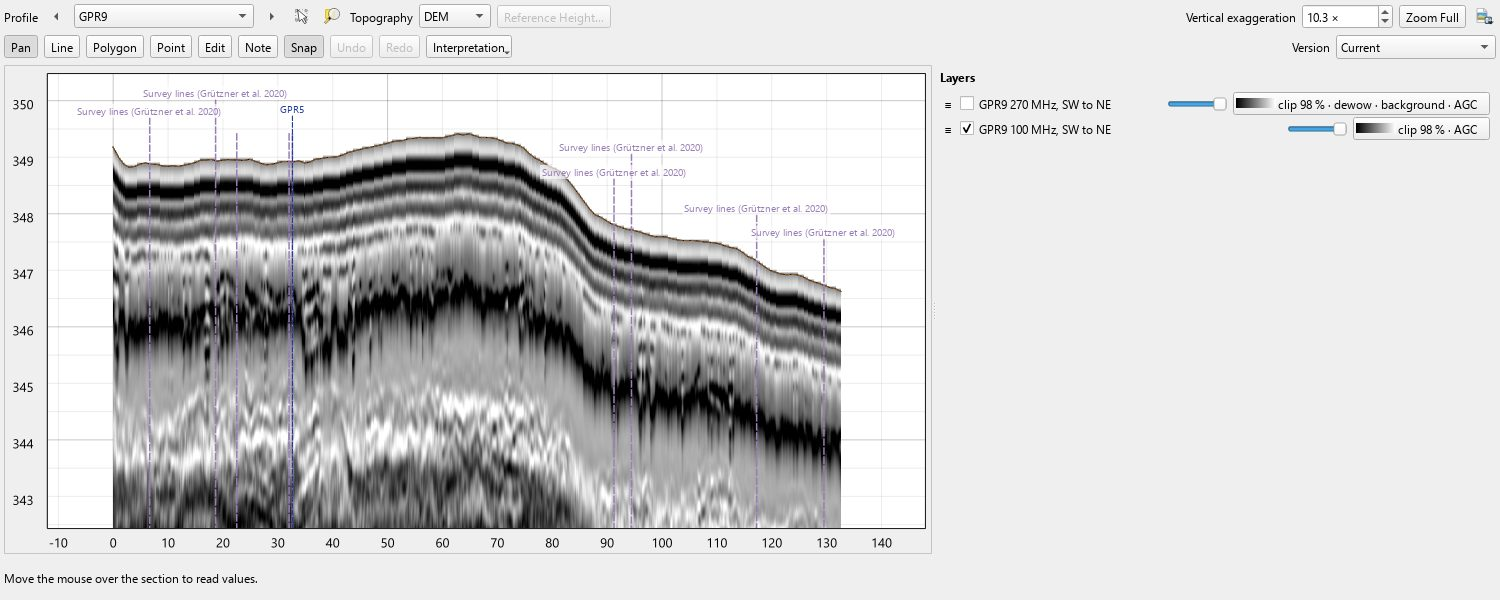
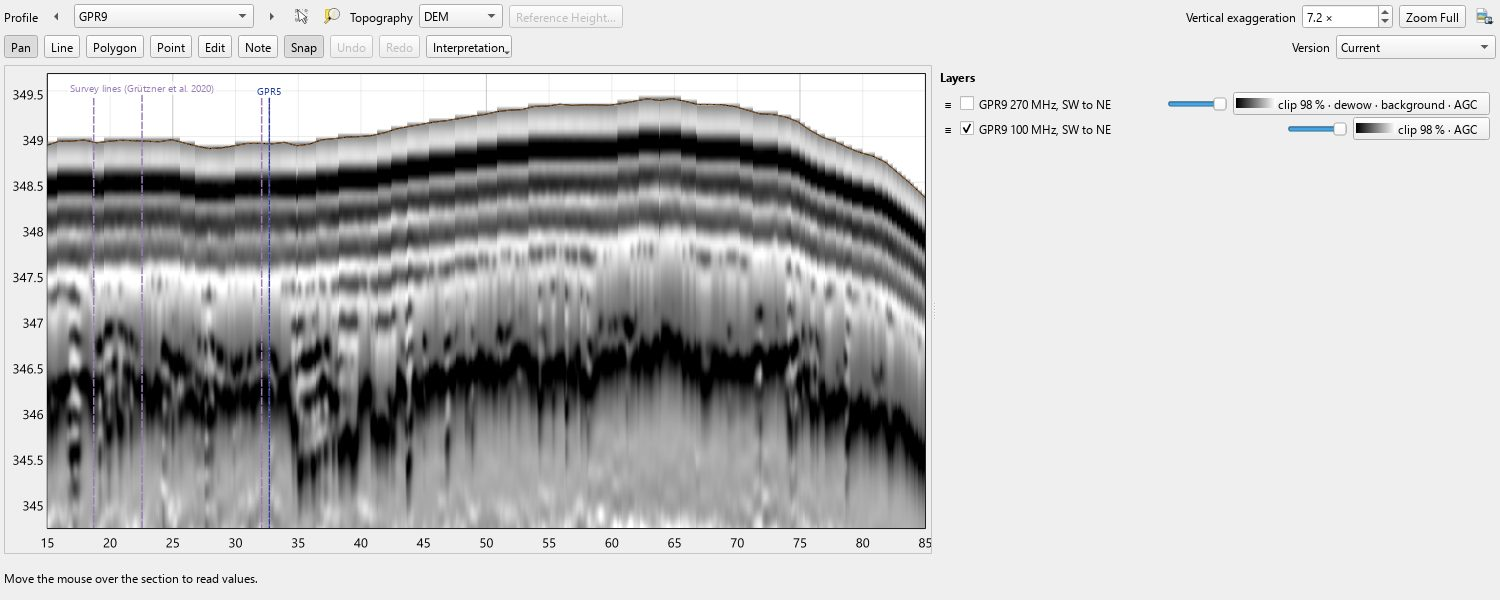
docs: the radar before/after pictures zoom in on the reflectors

diff --git a/scripts/render_gpr_pictures.py b/scripts/render_gpr_pictures.py
@@ -57,7 +57,7 @@ VELOCITY = "0.15"
 #: views: from s, to s, top of the view (m above sea level), depth shown (m)
 SECTION_VIEW = (-5.0, 191.0, 349.0, 8.5)
 ANTENNA_VIEW = (40.0, 140.0, 348.5, 12.0)
-LOOK_VIEW = (-12.0, 148.0, 350.5, 8.0)
+LOOK_VIEW = (15.0, 85.0, 349.7, 5.0)
 DIALOG_WIDTH = 760
 DISPLAY_WIDTH = 520
 #: Add Data's parts in marker order: rows of the radar box by their key, or dialog parts by

diff --git a/docs/user/howto/gpr.md b/docs/user/howto/gpr.md
@@ -182,8 +182,8 @@ they switch on and off along the line. They look like layers and are not.
 
 ![The same view with the look a new radargram starts with: band-pass, background over the whole line and AGC; reflectors and their dips show](../../images/howto/gpr-look-after.jpg)
 
-*Line GPR9, 100 MHz, the upper 6 to 8 m: above as recorded with AGC only, below with the look
-a new radargram starts with. Data: Grützner et al. 2020, PANGAEA, CC BY 4.0.*
+*Line GPR9, 100 MHz, 15 to 85 m along the line, the top 4 to 5 m: above as recorded with
+AGC only, below with the look a new radargram starts with. Data: Grützner et al. 2020, PANGAEA, CC BY 4.0.*
 
 - **The band-pass** keeps half to twice the antenna's frequency and takes everything else
   away: the slow swings, and the drift dewow was there for. The reflections lie inside that

diff --git a/docs/releases/0.17.0.md b/docs/releases/0.17.0.md
@@ -63,8 +63,8 @@ opening a dialog.
 
 ![The same view with the look a new radargram starts with: band-pass, background over the whole line and AGC; reflectors and their dips show](../images/howto/gpr-look-after.jpg)
 
-*Line GPR9, 100 MHz, the upper 6 to 8 m: above with AGC only, below with the start look.
-Data: Grützner et al. 2020, PANGAEA, CC BY 4.0.*
+*Line GPR9, 100 MHz, 15 to 85 m along the line, the top 4 to 5 m: above with AGC only,
+below with the start look. Data: Grützner et al. 2020, PANGAEA, CC BY 4.0.*
 
 See [Ground-penetrating radar](../user/howto/gpr.md).
 
